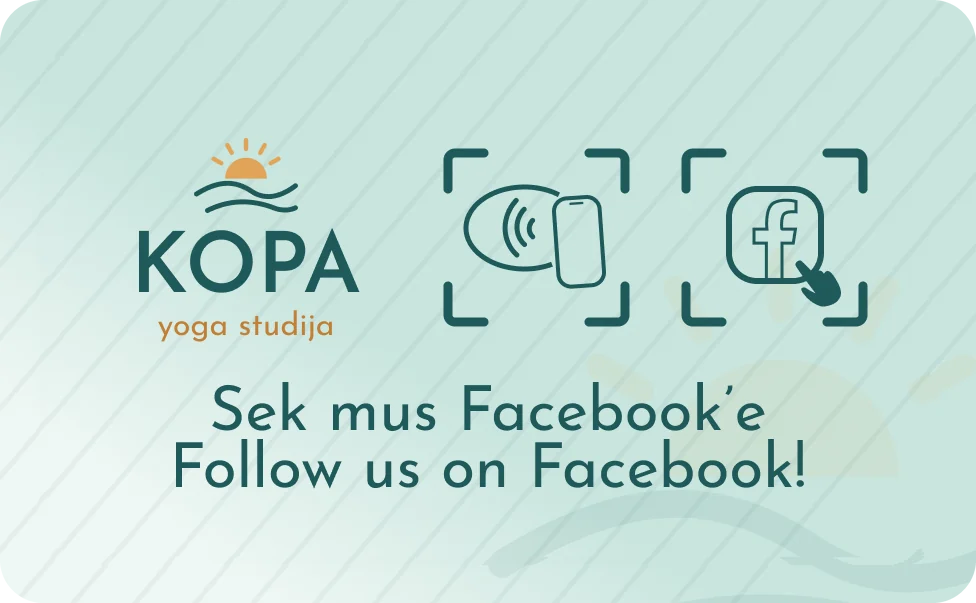
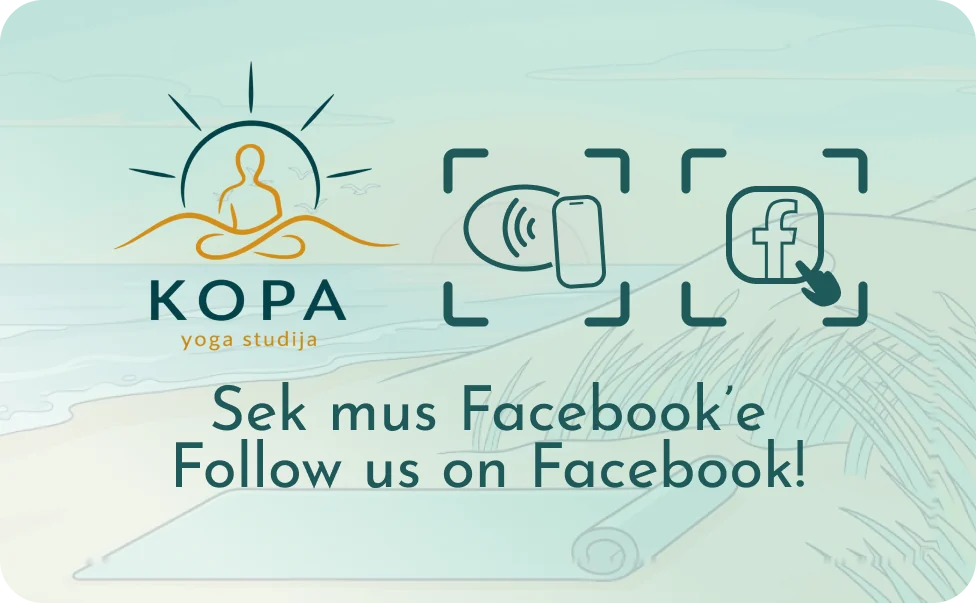
Nuevos diseños de ejemplo de tarjetas NFC

diff --git a/lt/index.html b/lt/index.html
@@ -237,7 +237,7 @@
           <figure class="nfc-card">
             <div class="nfc-card-stage">
               <div class="nfc-card-tilt">
-                <img src="../img/tarjetas/ejemplo-gintaro.webp" alt="Pavyzdinė barberinės „Gintaro“ NFC kortelė: juodas fonas, auksinės raidės ir užrašas „Palikite mums atsiliepimą“ lietuvių ir anglų kalbomis" width="976" height="603" draggable="false" loading="lazy">
+                <img src="../img/tarjetas/ejemplo-gintaro.webp?v=2026-10-04" alt="Pavyzdinė barberinės „Gintaro“ NFC kortelė: auksinė emblema su inkaru, skustuvu ir brangakmeniu barberinės su iliuminatoriais fone ir užrašas „Palikite mums atsiliepimą“ lietuvių ir anglų kalbomis" width="976" height="603" draggable="false" loading="lazy">
                 <span class="nfc-card-glare" aria-hidden="true"></span>
               </div>
             </div>
@@ -246,7 +246,7 @@
           <figure class="nfc-card">
             <div class="nfc-card-stage">
               <div class="nfc-card-tilt">
-                <img src="../img/tarjetas/ejemplo-rasos.webp" alt="Pavyzdinė gėlių studijos Rasos NFC kortelė: rožinis fonas su tulpe ir užrašas „Sek mus Instagram’e“ lietuvių ir anglų kalbomis" width="976" height="603" draggable="false" loading="lazy">
+                <img src="../img/tarjetas/ejemplo-rasos.webp?v=2026-10-04" alt="Pavyzdinė gėlių parduotuvės Rasos NFC kortelė: logotipas su raudona rože ir bordo raidėmis rožinės gėlių parduotuvės fone ir užrašas „Sek mus Instagram’e“ lietuvių ir anglų kalbomis" width="976" height="603" draggable="false" loading="lazy">
                 <span class="nfc-card-glare" aria-hidden="true"></span>
               </div>
             </div>
@@ -255,7 +255,7 @@
           <figure class="nfc-card">
             <div class="nfc-card-stage">
               <div class="nfc-card-tilt">
-                <img src="../img/tarjetas/ejemplo-kopa.webp" alt="Pavyzdinė jogos studijos Kopa NFC kortelė: žalsvai mėlynas fonas su saule virš bangų ir užrašas „Sek mus Facebook’e“ lietuvių ir anglų kalbomis" width="976" height="603" draggable="false" loading="lazy">
+                <img src="../img/tarjetas/ejemplo-kopa.webp?v=2026-10-04" alt="Pavyzdinė jogos studijos Kopa NFC kortelė: medituojanti figūra po saule žalsvai mėlyno paplūdimio fone ir užrašas „Sek mus Facebook’e“ lietuvių ir anglų kalbomis" width="976" height="603" draggable="false" loading="lazy">
                 <span class="nfc-card-glare" aria-hidden="true"></span>
               </div>
             </div>
@@ -264,7 +264,7 @@
           <figure class="nfc-card">
             <div class="nfc-card-stage">
               <div class="nfc-card-tilt">
-                <img src="../img/tarjetas/ejemplo-bangos.webp" alt="Pavyzdinė bistro Bangos NFC kortelė: tamsiai mėlynas fonas su oranžine žuvimi ir užrašas „Mūsų meniu“ lietuvių ir anglų kalbomis" width="976" height="603" draggable="false" loading="lazy">
+                <img src="../img/tarjetas/ejemplo-bangos.webp?v=2026-10-04" alt="Pavyzdinė bistro Bangos NFC kortelė: oranžinė žuvis virėja ant bangos uosto su švyturiu fone ir užrašas „Mūsų meniu“ lietuvių ir anglų kalbomis" width="976" height="603" draggable="false" loading="lazy">
                 <span class="nfc-card-glare" aria-hidden="true"></span>
               </div>
             </div>

diff --git a/index.html b/index.html
@@ -237,7 +237,7 @@
           <figure class="nfc-card">
             <div class="nfc-card-stage">
               <div class="nfc-card-tilt">
-                <img src="img/tarjetas/ejemplo-gintaro.webp" alt="Tarjeta NFC de ejemplo de Gintaro, una barbería: fondo negro, letras doradas y el texto «Déjanos una reseña» en lituano y en inglés" width="976" height="603" draggable="false" loading="lazy">
+                <img src="img/tarjetas/ejemplo-gintaro.webp?v=2026-10-04" alt="Tarjeta NFC de ejemplo de Gintaro, una barbería: emblema dorado con un ancla, una navaja y una gema sobre una barbería con ojos de buey, y el texto «Déjanos una reseña» en lituano y en inglés" width="976" height="603" draggable="false" loading="lazy">
                 <span class="nfc-card-glare" aria-hidden="true"></span>
               </div>
             </div>
@@ -246,7 +246,7 @@
           <figure class="nfc-card">
             <div class="nfc-card-stage">
               <div class="nfc-card-tilt">
-                <img src="img/tarjetas/ejemplo-rasos.webp" alt="Tarjeta NFC de ejemplo de Rasos, un estudio floral: fondo rosa con un tulipán y el texto «Síguenos en Instagram» en lituano y en inglés" width="976" height="603" draggable="false" loading="lazy">
+                <img src="img/tarjetas/ejemplo-rasos.webp?v=2026-10-04" alt="Tarjeta NFC de ejemplo de Rasos, una floristería: logo con una rosa roja y letras granate sobre una tienda de flores en tonos rosa, y el texto «Síguenos en Instagram» en lituano y en inglés" width="976" height="603" draggable="false" loading="lazy">
                 <span class="nfc-card-glare" aria-hidden="true"></span>
               </div>
             </div>
@@ -255,7 +255,7 @@
           <figure class="nfc-card">
             <div class="nfc-card-stage">
               <div class="nfc-card-tilt">
-                <img src="img/tarjetas/ejemplo-kopa.webp" alt="Tarjeta NFC de ejemplo de Kopa, un estudio de yoga: fondo verde agua con un sol sobre las olas y el texto «Síguenos en Facebook» en lituano y en inglés" width="976" height="603" draggable="false" loading="lazy">
+                <img src="img/tarjetas/ejemplo-kopa.webp?v=2026-10-04" alt="Tarjeta NFC de ejemplo de Kopa, un estudio de yoga: figura meditando bajo un sol sobre una playa en tonos verde agua, y el texto «Síguenos en Facebook» en lituano y en inglés" width="976" height="603" draggable="false" loading="lazy">
                 <span class="nfc-card-glare" aria-hidden="true"></span>
               </div>
             </div>
@@ -264,7 +264,7 @@
           <figure class="nfc-card">
             <div class="nfc-card-stage">
               <div class="nfc-card-tilt">
-                <img src="img/tarjetas/ejemplo-bangos.webp" alt="Tarjeta NFC de ejemplo de Bangos, un bistró: fondo azul marino con un pez naranja y el texto «Mira nuestra carta» en lituano y en inglés" width="976" height="603" draggable="false" loading="lazy">
+                <img src="img/tarjetas/ejemplo-bangos.webp?v=2026-10-04" alt="Tarjeta NFC de ejemplo de Bangos, un bistró: pez cocinero naranja sobre una ola frente a un puerto con faro, y el texto «Mira nuestra carta» en lituano y en inglés" width="976" height="603" draggable="false" loading="lazy">
                 <span class="nfc-card-glare" aria-hidden="true"></span>
               </div>
             </div>

diff --git a/en/index.html b/en/index.html
@@ -237,7 +237,7 @@
           <figure class="nfc-card">
             <div class="nfc-card-stage">
               <div class="nfc-card-tilt">
-                <img src="../img/tarjetas/ejemplo-gintaro.webp" alt="Example NFC card for Gintaro, a barber's: black background, gold lettering and the text “Leave us a review” in Lithuanian and English" width="976" height="603" draggable="false" loading="lazy">
+                <img src="../img/tarjetas/ejemplo-gintaro.webp?v=2026-10-04" alt="Example NFC card for Gintaro, a barber’s: gold emblem with an anchor, a razor and a gem over a barbershop with portholes, and the text “Leave us a review” in Lithuanian and English" width="976" height="603" draggable="false" loading="lazy">
                 <span class="nfc-card-glare" aria-hidden="true"></span>
               </div>
             </div>
@@ -246,7 +246,7 @@
           <figure class="nfc-card">
             <div class="nfc-card-stage">
               <div class="nfc-card-tilt">
-                <img src="../img/tarjetas/ejemplo-rasos.webp" alt="Example NFC card for Rasos, a flower studio: pink background with a tulip and the text “Follow us on Instagram” in Lithuanian and English" width="976" height="603" draggable="false" loading="lazy">
+                <img src="../img/tarjetas/ejemplo-rasos.webp?v=2026-10-04" alt="Example NFC card for Rasos, a flower shop: logo with a red rose and burgundy lettering over a pink flower shop, and the text “Follow us on Instagram” in Lithuanian and English" width="976" height="603" draggable="false" loading="lazy">
                 <span class="nfc-card-glare" aria-hidden="true"></span>
               </div>
             </div>
@@ -255,7 +255,7 @@
           <figure class="nfc-card">
             <div class="nfc-card-stage">
               <div class="nfc-card-tilt">
-                <img src="../img/tarjetas/ejemplo-kopa.webp" alt="Example NFC card for Kopa, a yoga studio: aqua background with a sun over the waves and the text “Follow us on Facebook” in Lithuanian and English" width="976" height="603" draggable="false" loading="lazy">
+                <img src="../img/tarjetas/ejemplo-kopa.webp?v=2026-10-04" alt="Example NFC card for Kopa, a yoga studio: meditating figure under a sun over an aqua beach, and the text “Follow us on Facebook” in Lithuanian and English" width="976" height="603" draggable="false" loading="lazy">
                 <span class="nfc-card-glare" aria-hidden="true"></span>
               </div>
             </div>
@@ -264,7 +264,7 @@
           <figure class="nfc-card">
             <div class="nfc-card-stage">
               <div class="nfc-card-tilt">
-                <img src="../img/tarjetas/ejemplo-bangos.webp" alt="Example NFC card for Bangos, a bistro: navy blue background with an orange fish and the text “See our menu” in Lithuanian and English" width="976" height="603" draggable="false" loading="lazy">
+                <img src="../img/tarjetas/ejemplo-bangos.webp?v=2026-10-04" alt="Example NFC card for Bangos, a bistro: orange chef fish on a wave in front of a harbour with a lighthouse, and the text “See our menu” in Lithuanian and English" width="976" height="603" draggable="false" loading="lazy">
                 <span class="nfc-card-glare" aria-hidden="true"></span>
               </div>
             </div>
